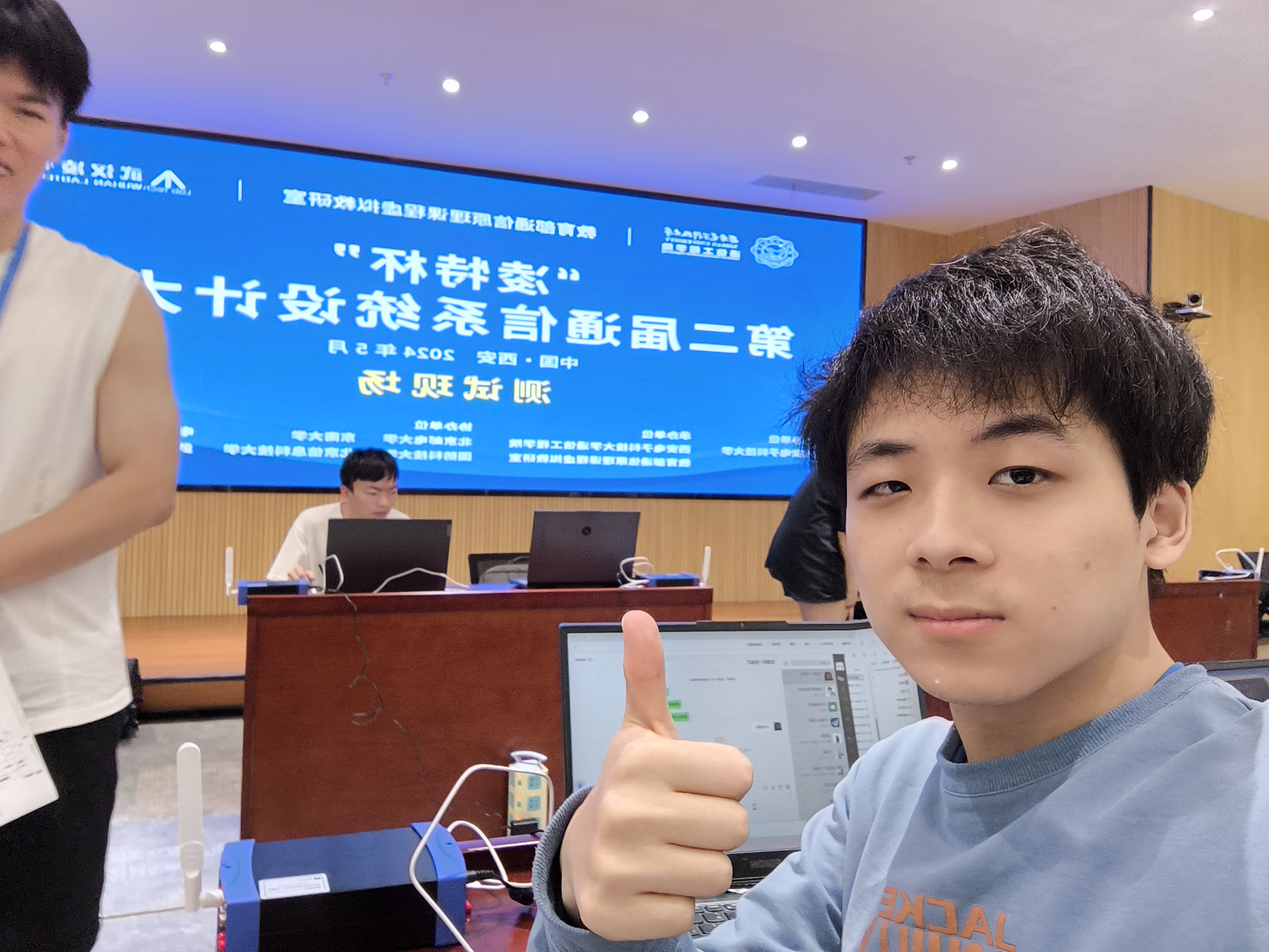
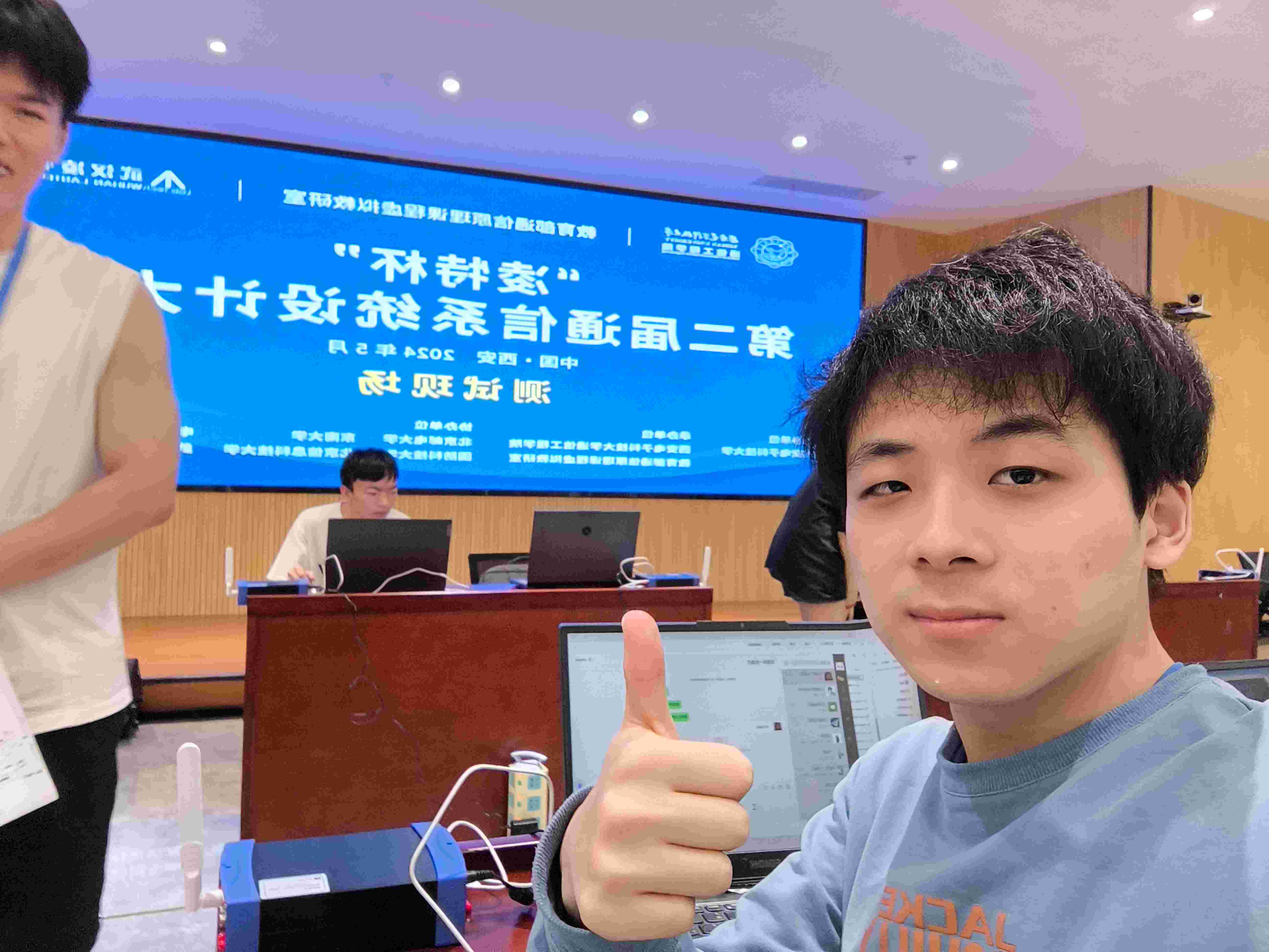
压缩图片大小

Changed region(s): [[0.0, 0.1245, 0.6875, 0.5291]]

diff --git a/dynamic_load.html b/dynamic_load.html
@@ -233,6 +233,7 @@
         <h1 class="year-title">2024</h1>
         <h2 class="month-title">2024.5</h2>
         <ul class="day-ul">
+          <li>5.19:压缩图片大小</li>
           <li>5.18:修改和完善个人介绍</li>
           <li>5.17:修改主页面，添加各平台入口链接</li>
         </ul>

diff --git a/updatelog.html b/updatelog.html
@@ -13,6 +13,7 @@
       <h1 class="year-title">2024</h1>
       <h2 class="month-title">2024.5</h2>
       <ul class="day-ul">
+        <li>5.19:压缩图片大小</li>
         <li>5.18:修改和完善个人介绍</li>
         <li>5.17:修改主页面，添加各平台入口链接</li>
       </ul>
